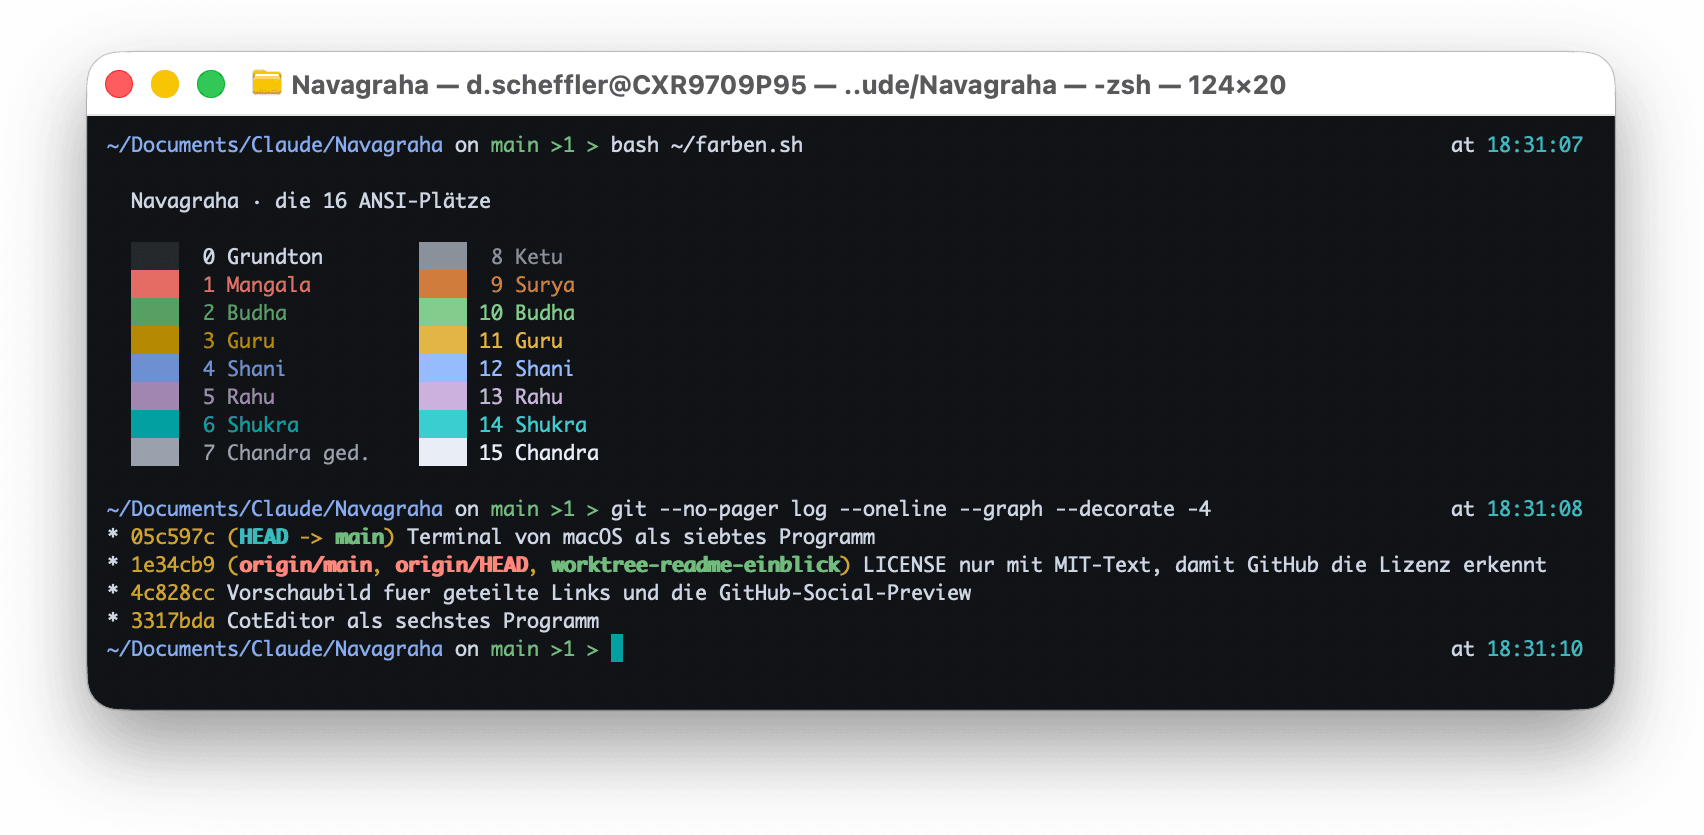
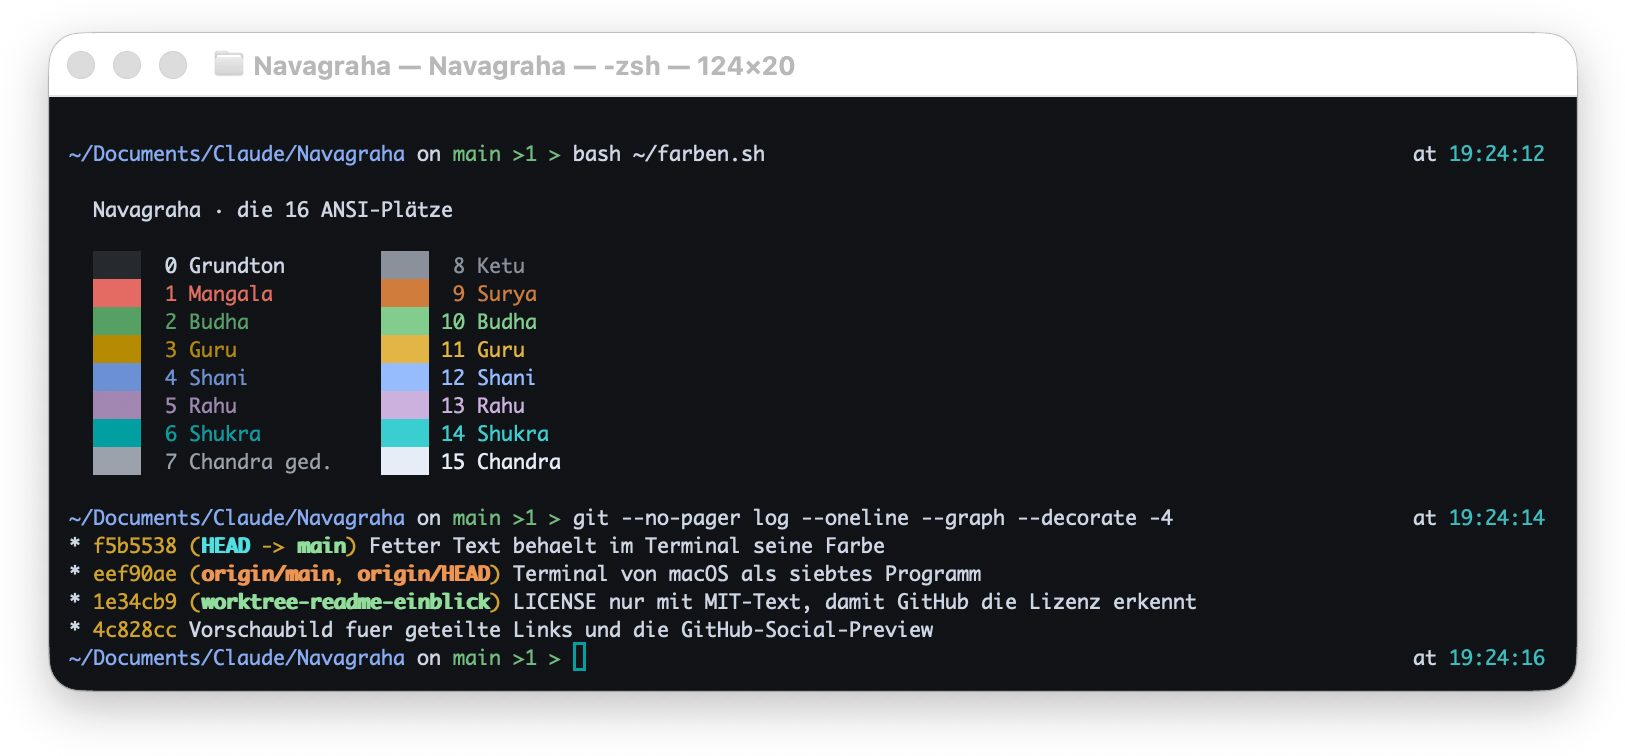
Fetter Text behaelt im Terminal seine Farbe
Terminal fuellt einen Schluessel, der im Profil fehlt, aus dem
Standardprofil des Benutzers auf. Fehlte UseBrightBold, griff dessen Wert:
jeder fette Text bekam TextBoldColor und verlor seine ANSI-Farbe — `ls`
zeigte Verzeichnisse weiss statt tuerkis, obwohl es 1;36 sendet. Der
Schalter steht jetzt ausdruecklich im Profil.

Gemessen: die 16 Plaetze kommen in Terminal wie in iTerm2 pixelgenau an,
16 von 16 exakt oder um eine Stufe gerundet.

Die Screenshots neu aufgenommen. Der Fenstertitel trug Benutzer- und
Rechnernamen, weil Terminal ihn aus der Titelzeile der Shell bildet.

Changed region(s): [[0.0308, 0.0608, 0.9846, 0.9431]]

diff --git a/themes/apple-terminal/README.md b/themes/apple-terminal/README.md
@@ -26,9 +26,11 @@ Terminal wechselt nicht mit der Systemdarstellung: das gewählte Profil gilt
 für helle und dunkle Umgebung gleichermaßen. Wer beides will, wählt von Hand
 oder legt sich zwei Fenstergruppen an.
 
-Die Profile bringen nur Farben mit. Schriftart, Fenstergröße und Verhalten
-bleiben so, wie Terminal sie voreinstellt; die Schrift steht im selben
-Bereich unter **Text**.
+Die Profile bringen Farben mit und einen einzigen Schalter: **Helle Farben
+für fetten Text**. Ohne ihn färbt Terminal jeden fetten Text mit der Fettfarbe
+und überschreibt damit die ANSI-Farbe — `ls` zeigte Verzeichnisse dann weiß
+statt türkis. Schriftart, Fenstergröße und alles Übrige bleiben so, wie
+Terminal sie voreinstellt; die Schrift steht im selben Bereich unter **Text**.
 
 Terminal kennt keine eigene Farbe für markierten Text — was markiert ist,
 behält seine Farbe. Die Auswahlfläche liegt deshalb auf der obersten
@@ -67,8 +69,11 @@ Nine planets, nine colours — a colour scheme read from a birth chart.
 Terminal does not follow the system appearance: the chosen profile applies in
 both light and dark surroundings, so switching is done by hand.
 
-The profiles carry colours only — font, window size and behaviour stay at
-Terminal's own defaults; the font sits in the same pane under **Text**.
+The profiles carry colours and one switch: **Use bright colors for bold
+text**. Without it Terminal paints every bold run in the bold colour and
+overrides the ANSI colour — `ls` then showed directories white instead of
+teal. Font, window size and everything else stay at Terminal's own defaults;
+the font sits in the same pane under **Text**.
 
 Terminal has no separate colour for selected text, so a selection keeps the
 colour it had. The selection sits on the topmost ground of the palette, the

diff --git a/CLAUDE.md b/CLAUDE.md
@@ -84,8 +84,14 @@ trägt jede Farbe als archiviertes `NSColor` in Generic RGB, base64 in einem
 Entpacker von macOS liest beides, und so bleibt lesbar, was darin steht.
 Terminal kennt keine Vordergrundfarbe für markierten Text; die Auswahl liegt
 deshalb nicht auf `hl_high` wie in tabby und iTerm2, sondern auf `overlay`,
-damit auch dort jede Farbe über 4,5:1 bleibt. Die Profile tragen nur Farben:
-Schrift und Fenster bleiben, wie Terminal sie voreinstellt.
+damit auch dort jede Farbe über 4,5:1 bleibt.
+
+Ein Schlüssel, der im Profil fehlt, wird aus dem Standardprofil des jeweiligen
+Benutzers aufgefüllt — ein Profil, das nur Farben trägt, sieht deshalb nicht
+bei jedem gleich aus. `UseBrightBold` steht darum ausdrücklich drin: ohne ihn
+färbt Terminal jeden fetten Text mit `TextBoldColor` und überschreibt die
+ANSI-Farbe, `ls` zeigte Verzeichnisse dann weiß statt türkis. Schrift und
+Fenster bleiben dagegen, wie Terminal sie voreinstellt.
 
 ### Varianten
 
